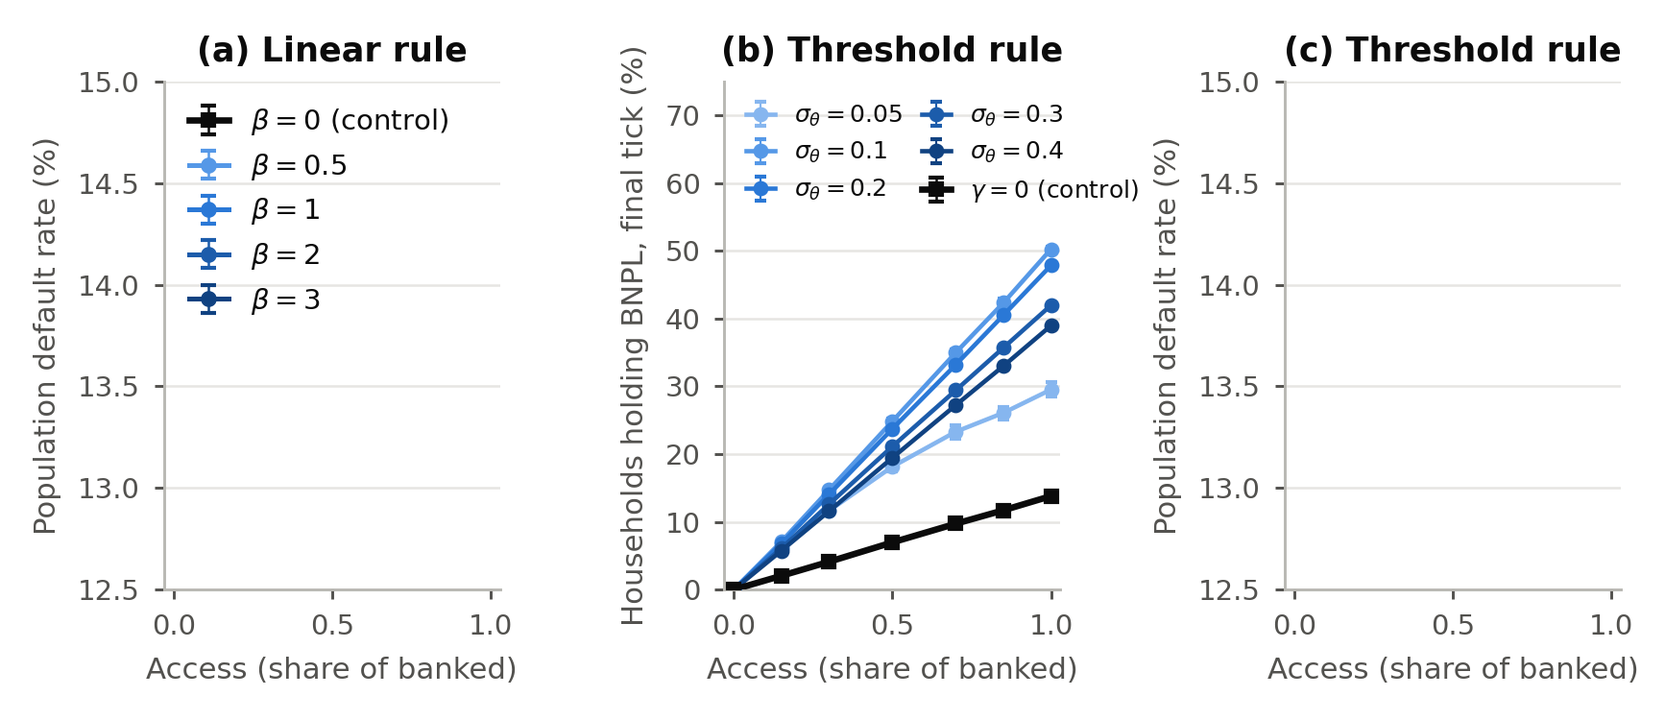
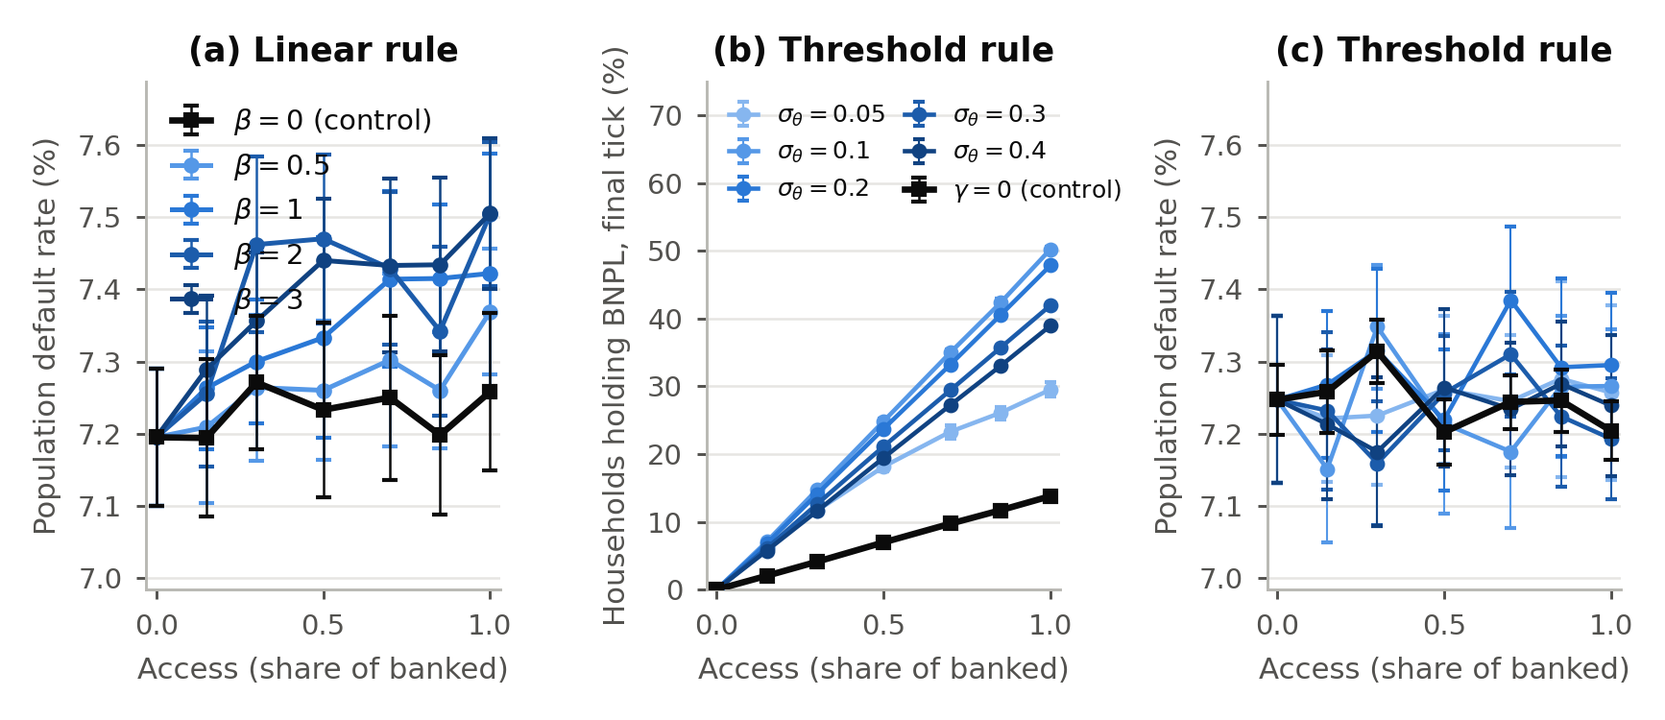
Figures: data-driven default axes (fixed 12.5-15% limits left panels empty after the rebuild); add 2026-10-13 review reports

diff --git a/notebooks/scripts/build_results_figures.py b/notebooks/scripts/build_results_figures.py
@@ -119,7 +119,7 @@ def fig_stacking(rq1: pd.DataFrame) -> None:
         dress(ax)
     axes[0].set_ylim(0, 70)
     axes[1].set_ylim(0, 105)
-    axes[2].set_ylim(12.5, 15.0)
+    axes[2].margins(y=0.25)  # data-driven: default levels moved with the 2026-10-12 rebuild
     axes[0].legend(loc="center right", handlelength=1.6)
     fig.tight_layout(w_pad=1.4)
     save(fig, "fig_stacking")
@@ -164,9 +164,13 @@ def fig_access_default(rq2: pd.DataFrame, rq2t: pd.DataFrame) -> None:
         ax.set_xlabel("Access (share of banked)")
         ax.set_xlim(-0.03, 1.03)
         dress(ax)
-    ax_a.set_ylim(12.5, 15.0)
     ax_b.set_ylim(0, 75)
-    ax_c.set_ylim(12.5, 15.0)
+    # Panels (a) and (c) share a data-driven default scale (fixed limits went stale on 2026-10-12).
+    for ax in (ax_a, ax_c):
+        ax.margins(y=0.15)
+        ax.autoscale_view()
+    lo = min(ax_a.get_ylim()[0], ax_c.get_ylim()[0]); hi = max(ax_a.get_ylim()[1], ax_c.get_ylim()[1])
+    ax_a.set_ylim(lo, hi); ax_c.set_ylim(lo, hi)
     fig.tight_layout(w_pad=1.3)
     save(fig, "fig_access_default")
     plt.close(fig)
@@ -199,7 +203,7 @@ def fig_scenarios(rq3s: pd.DataFrame) -> None:
         ax.set_xticks(x)
         ax.set_xticklabels(names)
         dress(ax)
-    ax_a.set_ylim(12.5, 15.0)
+    ax_a.margins(y=0.25)  # data-driven, see fig_access
     ax_a.set_ylabel("Population default rate (%)")
     ax_a.set_title("(a) Default at the final tick")
     ax_a.legend(loc="upper left", handlelength=1.2)

diff --git a/docs/reviews/2026-10-13/02_writing.md b/docs/reviews/2026-10-13/02_writing.md
@@ -1,0 +1,89 @@
+# Writing review, 2026-10-13 (HEAD 2b9b033)
+
+Scope: the abstract (`thesis/main.tex`) and Sections 1 to 6 (`thesis/chapters/01`–`06`). I skimmed the appendices. Line numbers refer to the .tex sources. I read the typeset PDF too. It builds with no undefined references, but the abstract runs onto a second page.
+
+## Verdict
+
+This reads as human academic prose by one careful author. The vocabulary tells are absent. There are no em dashes in the body. None of "crucial", "pivotal", "landscape", "underscore", "delve", "nuanced", "notably", "importantly", "however" or "moreover" appears. "Robust" occurs only as a label, and there are two "rather than" contrasts in the body. The "detectable" convention is applied consistently. Most sentences make one claim with one number and its standard error.
+
+**AI-detection risk: low, rising to medium in four places.** The risk comes from structure, not word choice:
+1. A repeated hedge template ("One candidate explanation, not tested, is ...") appears five times.
+2. Section 6 copies Section 4.6 almost word for word, and opens its findings with an announcing sentence.
+3. Section 3.5 ends with a three-part taxonomy of failures ("The failures differ in kind ...") that reads as designed.
+4. Several paragraphs are patched with reviewer-defence sentences until the argument is lost (4:76-88, 5:34-39, 3:361-369).
+
+An examiner would not flag the vocabulary. They would notice the repetition and the patching. The bigger risk is that they read it as a committee-edited text, not as a machine-written one.
+
+## Problems, in priority order
+
+**1. One hedge template, used five times.** 4:175 "One candidate explanation, not tested, is the income drift"; 4:83 "an untested explanation of the fall"; 5:67 "One candidate, not tested, is the income drift of Section 3.4, which is largest in Q4"; 5:69 "Three features of the model could explain why default does not move, none of them tested:"; 5:78 "A likely reason, not tested, is that ...". A formula repeated this often reads as generated. 5:67-68 also repeats 4:175. "A likely reason" claims more than an untested mechanism supports.
+- 5:66-68 → "Its one detectable effect on default is in Q4, $+0.23 \pm 0.09$ and $+0.24 \pm 0.09$ points on the same seeds, the quintile discussed in Section~\ref{sec:results-distribution}." (Delete the "One candidate" sentence.)
+- 5:69-73 → "Default may not move because a \ac{BNPL} agreement is small beside the room the Regulation 23A test allows, because the test is applied before the income shocks that drive distress, or because a refused shortfall request passes in full to the traditional lender (Algorithm~\ref{alg:gate}); we tested none of these."
+- 5:77-78 "A likely reason, not tested, is that screening refuses" → "Screening may refuse"; then add "This is not tested." at the end of that sentence.
+
+**2. Section 6 repeats Section 4.6, and the findings repeat the answers.** 4:280-281 and 6:16-17 are near-identical: "Owing several platforms at once is common ..., at a rate set mostly by the assumed routing rule and by how often households borrow." 4:285 and 6:20-21 repeat "Default does not change detectably with the routing rule and does not rise with the number of platforms." The "about 5% of the default rate among households whose income covers their food and rent" figure appears at 3:367-369, 4:283-284, 6:24-26 and 6:34-35. 6:32 "These answers support three findings." is an announcing sentence followed by a tricolon, and the three findings restate numbers from 6:16-30.
+- Delete 6:32.
+- 6:16-17 → "Owing several platforms at once is common, but its rate rests on an assumption (Section~\ref{sec:results-stacking})."
+- 6:34-37 → "With employment held constant, \ac{BNPL} adds little to default, and the derived separation rate places the effect at the low end (Section~\ref{sec:results-robustness})." (Keep the 5% figure in 6:24-26 and 4:283 only.)
+
+**3. 3:413-426 is a three-part taxonomy, and it contradicts itself.** "The failures differ in kind. The serious ones concern ... the missed intermediate bands ... Other gaps reflect ... Some misses are expected of a stylised model: ... cannot be expected to reproduce an account-level age analysis band by band." The first paragraph calls the missed intermediate bands serious. The third then excuses them. "Cannot be expected to" sounds defensive.
+- 3:415 → "The serious failures concern how the model generates distress: ..." (Delete "The failures differ in kind.")
+- 3:424-426 → "Pattern~3 comes from another model of another country, so missing it matters less." (Delete the clause about the age analysis band by band.)
+
+**4. Overclaims in the abstract and conclusion.**
+- main.tex:88 "how \ac{BNPL} changes household credit distress in South Africa". Section 1 (1:58-60) says the thesis does not estimate the historical effect. → "how \ac{BNPL} changes credit distress in a model of South African households".
+- main.tex:91 "Job loss and hiring follow labour-force data, so employment stays constant." The separation rate is derived, not observed, and employment is constant only in expectation. → "Hires follow labour-force data and job losses offset them in expectation."
+- main.tex:95 "Households often owe several platforms at once". This is a vague quantifier where a number exists. → "31\% of users owe several platforms at once at some point".
+- main.tex:97 "disappears if income losses last one fortnight". That arm also removes hiring, and 4:261 says it "does not isolate persistence". → "disappears with one-fortnight income losses and no hiring".
+- main.tex:98 "The model has no credit score, so we test reporting through the lender's affordability test." → "Without a credit score, reporting acts through the lender's affordability test." This pays for "in the model" in the next sentence: "because in the model refused households have no other credit".
+- 6:43-45 "so the number of platforms owed matters only through the volume borrowed". 4:84 says the platform sweep "cannot isolate the effect of platforms not seeing one another". "Remove as much volume" also has no referent. → "Caps on platforms owed and on agreements remove similar volume and change default similarly, by at most about 0.1 points, consistent with platform count mattering through volume."
+- 1:60-63 "a set of experiments that identify the mechanisms and assumptions on which the effect ... depends". Several mechanisms are explicitly untested. → "and experiments that show which assumptions the effect of \ac{BNPL} on default depends on."
+
+**5. 4:76-88 is patched together.** In order, it covers routing, platform count, a capacity confound, an untested explanation, "The sweep therefore cannot isolate ..." (which follows from the sentence two back), and caps. The cap sentence reads as self-contradicting: "does not change default detectably against the benchmark ...; paired on its own seeds, a cap of two lowers it". "No arm gives platforms a shared view of exposure" is repeated at 4:292.
+- 4:81-88 → "Each platform brings its own limit, so platform count and total credit capacity move together, and the sweep cannot isolate the effect of platforms not seeing one another. More capacity may give more shortfall relief, which would explain the fall at $\beta=1$; we did not test this. Against an uncapped arm on its own seeds, a cap of two platforms owed lowers default by $0.11 \pm 0.05$ points at $\beta=1$, as does a cap on agreements; against the benchmark neither is detectable (Table~\ref{tab:cap}; Appendix~\ref{app:levers})."
+
+**6. The central distress rule is too compressed (2:190-192).** "A committed-expenditure shortfall counts as distress even when credit is granted, and the unpaid food and rent are not owed in later ticks. The credit raised pays debt service first, then discretionary consumption, and any remainder is saved." The main BNPL result disappears without this rule (4:264-271), yet the reader cannot tell what happens to the food that was not paid for.
+- → "A food or rent shortfall counts as distress even when credit is granted. The unpaid amount is dropped, not carried forward. The credit pays debt service, then discretionary spending, and the rest is saved."
+
+**7. 4:264-271 has an unclear comparison and a non sequitur.** In "from a default rate without \ac{BNPL} of 4.38\% against 7.24\%", "from ... against" does not parse. "Lends about three times as much" does not say than what. "Neither arm is recalibrated. The effect of \ac{BNPL} therefore depends on ..." puts a "therefore" after a sentence it does not follow from.
+- → "...: $-0.01 \pm 0.04$ and $+0.02 \pm 0.04$ points, with default without \ac{BNPL} at 4.38\% instead of 7.24\%. Under that rule a loan clears the tick's distress, so households that lose income keep borrowing from the traditional lender, which assesses surveyed income and lends about three times as much as in the reference arm. Neither arm is recalibrated. Within the model, the effect of \ac{BNPL} depends on ..." (Check that "reference arm" is the right comparison.)
+
+**8. Contestable-default numbers are patched into the validation section (3:366-369).** This passage reports the BNPL effect ($0.18 \pm 0.05$) and the bureau effects ($0.19$, $0.17$) a chapter early. They differ from the headline 0.17, 0.18 and 0.16 without saying why, so a reader sees two "BNPL effects at $\beta=1$".
+- 3:366-369 → "Among the other households baseline default is 3.91\%, the base for the relative effects in Sections~\ref{sec:results} and~\ref{sec:scenarios}." This saves about 40 words. 4:283 and 6:25 already give the percentages.
+
+**9. Number-dense passages lose the argument.**
+- 3:250-262: fourteen numbers in one paragraph. "Income drift", used at 4:175 and 5:68, is never defined. Replace 3:260-262 ("Household income at the final tick is therefore 15.2\% and 3.2\% ... In total it is 3.9\% lower.") with "Household income at the final tick is therefore 15.2\% higher in Q1, 6.1\% lower in Q4 and 3.9\% lower in total. We call this the income drift."
+- 5:35-38: "arrears and late fees (Section~\ref{sec:asymmetry}) are 0.3\% of the visible \ac{BNPL} obligation at the applications it assesses at $\beta=0$ and 0.5\% at $\beta=1$, because ..." → "arrears and late fees are under 0.5\% of the visible obligation, because nearly all \ac{BNPL} arrears belong to households that have already defaulted."
+- 5:38-39: "Between 27 and 30\% of the obligation is on agreements opened in the same tick ..., which a bureau reporting with a lag would not show." This is a material caveat, and it is left hanging. Move it into the untested-rules sentence at 5:58: "The switches were not run with a reporting lag, under the other rules ...".
+- 4:133-141: "default rises by at most $0.11 \pm 0.05$ points more than in the control". "At most X ± SE" does not parse. → "the extra rise in default is at most 0.11 points".
+
+**10. Inconsistent terminology.**
+- Comparison arms go by four names. "Baseline" means BNPL off and "benchmark" means BNPL on (2:14-15). "Control" means $\beta=0$ (4:7, 4:136-138) or $\gamma=0$ (4:125). "Reference" is the sensitivity arm. Change 4:125 "in its control" → "at $\gamma=0$", and 4:136-138 "the control's" → "the $\beta=0$ arm's".
+- 4:210 "the default threshold" clashes with the Granovetter thresholds two subsections earlier. → "the default streak length".
+- 5:95 and 6:29-30 "Neither measure" → "Neither switch". 5:19 uses "switch", and "measure" also means a statistic (2:330, 3:381).
+- 3:394 says "30.3\%" and 4:61 says "31\%" for the same stacking share. 4:61 says "the \ac{CFPB}'s 32 to 33\%" and the Figure 3 note says "32\%". Use one figure each.
+- 4:202-204 "lowers default from 7.54\% to 4.78\% and the 90+ share from 9.10\% to 7.60\%". 7.54\% is never identified as the $\beta=1$ reference arm. → "lowers default at $\beta=1$ from ...".
+- 1:133 cites "Pattern~1" two chapters before Patterns are defined at 3:290. → "(Table~\ref{tab:bnpl-on-checks})" only.
+
+**11. Hedge stack on the tipping point (4:113-120).** The paragraph has three qualifications in a row. 4:115-117 → "..., so nothing in these data suggests one, although seven widely spaced access levels could miss one."
+
+**12. Restated limitations.** The credit-score omission appears at main.tex:98, 1:55-56, 2:156-159, 6:63-64 and 6:66-68. Stacking set by routing appears at 2:329-331, 3:395-396, 4:64-72, 4:280 and 6:16. The baseline 90+ numbers repeat at 4:14-17. Cut 1:55-56 ("The model has no credit score, so it represents reporting only through the traditional lender's affordability test.") and 4:14-17 after the first sentence. These cuts pay for the additions above.
+
+**13. Smaller items.**
+- 4:144-147 "$0.17 \pm 0.05$ points, the pooled effect at $\beta=1$" reads as if it were the $\beta=1$ estimate. → "equal to the pooled effect at $\beta=1$".
+- 4:255 "When households borrow rarely, larger purchases have little to act on." This is an aphorism. → "At $\beta=0$ a user makes about 2.5 purchases in two years, so purchase size matters little."
+- 4:186-188 is a stranded two-sentence paragraph on platform limits. Merge it into 4:179-183 after "small purchases mean small instalments" as "Platform limits also bind more on poorer households: ...".
+- 3:438 "which supports the inputs rather than the model" → "which tests the inputs only".
+- 5:48-49 "because the switch acts on traditional lending and not on \ac{BNPL} requests" → "because the switch acts only on traditional lending".
+- 1:121-123 is a one-sentence paragraph. Join it to the Hamill paragraph.
+- 3:334-339 "Debt service is the one clear failure" conflicts with 3:415-417, which lists three serious failures. → "Debt service is the one clear failure in Table~\ref{tab:pop-external}."
+- The abstract leaves out the combined-arm result (screening removes about two-thirds of visibility's rise, 5:94-95), and so does 6:23-30. That is arguably the most policy-relevant RQ3 finding. Worth checking: 5:57 reports standard errors of 0.01 when the others are 0.03.
+
+## What works and should not change
+
+- The register: plain verbs, no em dashes, no filler openers, and "detectable" defined once (3:52) and used consistently.
+- Honest single-sentence limits where the claim is made: "Being distressed for 98 days is not the same as an account being 90 days in arrears." (2:200); "The model's rules may favour this result." (5:53); "the model cannot say whether visibility helps or harms households" (6:27-28); "chosen after seeing them" (4:175); "so the level of default is not validated" (3:323).
+- Plain, human topic sentences: "The effect at $\beta=1$ comes with much more borrowing by about as many borrowers." (4:29); "That near-universal share follows from the model's rules." (4:64); "Neither switch lowers default." (5:19); "Purchase size is poorly measured." (4:243); "Simulation noise is small beside the assumptions." (4:195).
+- The mechanism explanations: the $3F/4$ shortfall arithmetic (2:272-279), the tick conversion (2:17-22), the grant-card caveat (3:115-117) and the fallback that was never used (3:125-126).
+- The multiple-comparison arithmetic at 4:179-180 and 5:86-89, and the power statements at 3:53-55 and 5:14-16.
+- The abstract's sentence order and its one-number-per-claim results.

diff --git a/docs/reviews/2026-10-13/03_structure_vs_supervisor.md b/docs/reviews/2026-10-13/03_structure_vs_supervisor.md
@@ -1,0 +1,64 @@
+# Structure and presentation against the supervisor's paper
+
+Compared: the thesis at HEAD `2b9b033` (built PDF, 111 pages) and Davids, du Rand, Georg, Koziol and Schasfoort (2021), *Social Learning in a Network Model of Covid-19* (SSRN preprint, 57 pages). This is a structure and presentation review only. Nothing in the repository was changed except this file.
+
+## Verdict
+
+The thesis is already built on the paper's skeleton. Both run introduction (with the literature at its end), model, calibration, results, a separate policy-experiment section, conclusion, then pseudocode appendices split into initialisation and main loop. No restructuring is needed. Where the thesis differs, it is mostly better for a mini-dissertation: it states research questions, its validation is candid, and its inference is explicit. There are three real gaps. First, **four of the six body figures have empty default panels**, including the only figure for RQ3. Second, the introduction never says what the thesis found. Third, the most policy-relevant result, that bureau visibility raises default through refusals, is not one of the conclusion's headline findings and gets no policy paragraph. All three can be fixed without new experiments, and the word changes are neutral or save words.
+
+## Side-by-side outline
+
+| | Supervisor's paper | Thesis |
+|---|---|---|
+| Front | Abstract (~180 words, findings with numbers, no caveats), keywords, JEL codes | Declaration, abstract (299 words, findings with caveats), data and code, contents, acronyms |
+| 1 | Introduction, ~2,700 words: motivation; the model; data; **every result previewed with numbers, section by section**; literature as "two strands" with an explicit contribution sentence | Introduction, ~1,700 words: background; model; scoped contribution; RQs; Related Literature in four themed subsections, "Synthesis and Gap" and Table 1. **No preview of findings** |
+| 2 | The Model, ~3,800 words: free-form, not ODD; notation conventions; 3 numbered equations; 2 schematic figures | The Model, ~3,100 words: ODD, data-to-agent table, information-structure figure, 17-row submodel table, 1 equation |
+| 3 | Calibration, ~2,500 words: parameter table with sources in the body; 4 free parameters estimated by SMM and Nelder-Mead; validation is one figure and one RMSE | Calibration and Empirical Grounding, ~3,900 words: runs and inference; population; product parameters; 1 fitted parameter; validation over four patterns, with failures stated; answer to RQ1 |
+| 4 | Results, ~3,000 words: three subsections, each anchored on a time-path figure with 95% bands | Results, ~4,100 words: six subsections, 7 tables and 3 figures; ends with "Answer to RQ2" |
+| 5 | Vaccination strategies, ~800 words: one counterfactual, one figure | Bureau Visibility and Affordability Screening, ~1,300 words: one table, one figure; answers RQ3 |
+| 6 | Conclusion, ~400 words: summary, "three insights for policy makers", extensions | Conclusion, ~700 words: RQ1 to RQ3 restated, three findings, data needs, limits, extensions |
+| Back | A: result tables; B and C: pseudocode; D: data; E: travel calibration | A: rejected alternatives; B: ODD and register; C: supplementary; D: variables; E: matching; F and G: pseudocode |
+
+Word counts come from pdftotext and include table text, so they are approximate. The thesis's own count is 9,943 body words against the 10,000 cap, so every addition below is paired with a cut.
+
+## The six points in brief
+
+1. **Architecture.** Same order, and the literature sits in the same place. The thesis gives calibration more space (about 27% against 18%) and its policy section less (9%), though that section holds its most distinctive result. This matters a little; recommendations 3 and 5 deal with it.
+2. **Model presentation.** The paper uses equations and free-form text; the thesis uses ODD and tables, with one equation. Keep ODD, but write the core rules as equations (recommendation 7).
+3. **Calibration, validation, results.** The paper's validation is thin and its results are led by figures. The thesis's validation is far stronger and its results are led by tables (17 against 6 figures). The fault lies with the broken figures and the missing headline figure, not with the tables (recommendations 1, 4, 5).
+4. **Abstract and introduction.** The paper tells the reader its results before Section 2; the thesis does not, and an economics reader expects it to (recommendation 2). The abstract's structure was settled in `e892ba6` and is not reopened here.
+5. **Conventions.** Contribution paragraph: present, but not positioned strand by strand (recommendation 6). Headline figure: missing (4). Robustness: the thesis is stronger than the paper. Mechanism: present but not promoted. Policy implications: missing (3).
+6. **Register.** Both use "we". The paper is promotional and loose; the thesis is plain and heavily hedged. Keep the hedges in the results, and state the main result once, plainly, in the introduction and the conclusion.
+
+## Recommendations, ranked by value
+
+**1. Fix the four empty default panels.** Figures 3(c), 4(a), 4(c) and 6(a) plot default on a y-axis from 12.5 to 15%. Default is now 7.1 to 7.9%, so every point falls off the axis and the panels print empty. The cause is `set_ylim(12.5, 15.0)` hard-coded at lines 122, 167, 169 and 202 of `notebooks/scripts/build_results_figures.py`. It is left over from before the labour-flows rebuild (`07c646b`). Figure 6 is the only figure for RQ3. The supervisor's paper argues through figures, so an empty headline panel is the first thing he will notice. Cost: under an hour, no words. Set the limits from the data, regenerate, rebuild and look at every page. While doing this, check the unused `fig_baseline_arrears.png`: its 120+ bar reads 8.7, but Table 7 gives 8.64.
+
+**2. Preview the findings in the introduction.** Add one paragraph of about 120 words after the contribution paragraph in Section 1.1. It should give the three headline results with numbers: BNPL adds little to default without peer influence and 0.17 points with it; bureau visibility raises default by about 0.17 points through refusals, most in Q1; screening does not change default. Pay for it by folding the conclusion's RQ1 to RQ3 paragraphs (about 255 words) into its "three findings". Those paragraphs repeat the in-section answers at the ends of Sections 3.5, 4.6 and 5. Net change: about 130 words saved. Cost: 1 to 2 hours.
+
+**3. Promote the bureau-visibility mechanism and add a short policy paragraph.** The paper closes with "three insights for policy makers", and its stated key contribution is a mechanism (lockdowns raise compliance before social learning does). The thesis's three findings are all about RQ2. Its most counterintuitive and policy-relevant result appears only in the RQ3 paragraph: visibility works through refusals, refused households have no other credit, and screening alongside visibility removes about two-thirds of the rise. Make that one of the headline findings. Then add about 100 words on what follows for the reporting rollout, with the existing hedges kept: the effect of reporting depends on where refused households go next, screening at the point of sale offsets part of it, and those are the data that are missing. Pay for it from the saving in recommendation 2. Cost: 1 hour.
+
+**4. Plot differences, not levels, and add one headline figure.** The paper can plot levels because its effects are large (up to 50%). The thesis's effects are 0.1 to 0.2 points on a 7% base, with a replicate SD of about 0.2. Even with correct axes, level plots will show overlapping points. Redraw Figure 6(a), and possibly 4(a), as paired changes from the benchmark with 95% intervals, the same way the tornado figure is drawn. Ideally, add one compact headline figure with the BNPL effect at β = 0 and β = 1 and the visibility, screening and combined effects. It would play the role of the paper's Figure 4. The data are already in `results/raw` (`effect.parquet`, `rq3.parquet`). Cost: 2 to 3 hours, no words.
+
+**5. Let figures carry the results and move the duplicate tables to the appendices.** The paper keeps two tables in the body and its numeric tables in Appendix A. Table 11 repeats Figure 3 and Table 12 repeats Figure 4, so both could move to Appendix C. Table 6 could move to Appendix D. Table 15 could move to Appendix C if it is replaced in the body by a forest plot of the BNPL effect under each setting. Keep Tables 7, 9, 10 and 16. This also frees words if tables count toward the cap. Cost: 3 to 5 hours, including cross-references.
+
+**6. Replace "Synthesis and Gap" and Table 1 with a positioning paragraph.** The paper says "our paper relates to two strands" and then "our major contribution relative to these models is". The thesis lists studies by theme, then gives a table whose caption disclaims novelty. Write three sentences, one for each strand. Relative to household-credit ABMs, this model adds lenders that differ in what they observe. Relative to the United States BNPL evidence, it asks the question for a South African survey population. Relative to the regulatory debate, it isolates the affordability channel of reporting. Economics papers rarely use a literature table. This saves words or costs none. Cost: 1 hour.
+
+**7. Write two or three core rules as equations.** Good candidates are the Regulation 23A gate with and without the bureau switch, the distress indicator and k-tick default, and the shortfall split (an agreement of F covers 3F/4). Each equation replaces prose of about the same length. Cost: 2 hours.
+
+**8. Optional: a within-tick flow diagram.** It would replace the seven-step list in Section 2.3, as the paper's disease-progression schematic does for its states. Figure 1 shows who sees what, not the order of events. It saves about 80 words if the list moves into the caption. Cost: 2 to 3 hours of TikZ.
+
+**9. Small conventions.** Rename "4.6 Answer to RQ2" to "Summary", or make it the closing paragraph of 4.5; the paper uses descriptive headings. If the UCT format allows, add keywords and JEL codes under the abstract, for example C63, D14, G51 and G28. Cost: 10 minutes.
+
+**10. Optional, lowest priority: one time-path figure.** Every results figure in the paper is a time path; the thesis shows no dynamics (burn-in, default building up, the 90+ band rising to 11%). The saved outputs are summaries per run, so this needs one existing arm rerun with per-tick logging. That is not a new experiment, but skip it if time is short.
+
+## Things to keep
+
+- **The architecture.** It already matches the supervisor's paper, down to the pseudocode appendices.
+- **Research questions with an answer in each section.** A mini-dissertation is marked against its questions; the paper needs none.
+- **The validation section and its stated failures.** The paper validates with one RMSE and calls the fit reasonable. An examiner will reward the thesis's candour. Do not cut it down to the paper's level.
+- **The inference conventions:** seed pairing, standard errors, the detectability rule, power statements and the multiple-comparison warnings. The paper reports point percentages, and its abstract disagrees with its own Section 5: a 50% cut in fatalities in the abstract against 72% in the text, and 64% more fatalities against 46%. It also gives the social-learning weight as 0.85 in one place and the private weight as ρ = 0.15 in another, and calls 11.28 both a squared difference and an RMSE. Do not copy that looseness.
+- **ODD, the submodel table, the provenance table and the generated register.** They are the ABM convention and make the model examinable. The paper's free-form description suits a 57-page paper, not a capped thesis.
+- **The scoping sentences up front.** "The experiments measure differences between arms…" is right for a thesis. The paper's near silence on limits is not a model to follow.
+- **One fitted parameter and a short introduction.** Copying the paper's SMM estimation would mean new experiments, and a paper-length introduction would take 27% of the cap.
+- **The plain, exact register.** Add confidence only where the main result is stated.
